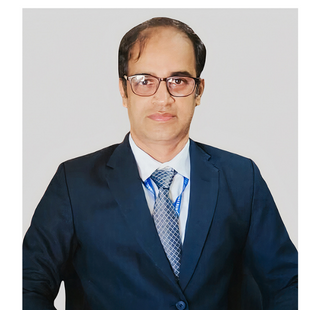
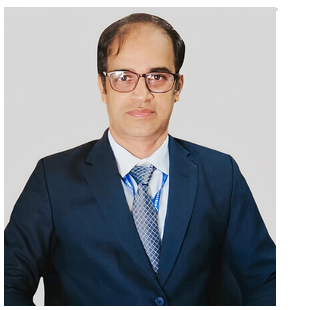
s

diff --git a/founders.php b/founders.php
@@ -46,7 +46,7 @@
             </div>
             <div class="clearfix"></div><br>
             <div class="col-sm-4" style="float:right;">
-                <img src="admin-kvgce/photos/gen_secretary2.png" class="img-responsive">
+                <img src="admin-kvgce/photos/founders/rp1.jpg" class="img-responsive" width="75%">
             </div>
             <div class="col-sm-8" style="font-size: 18px; font-size: 15px; letter-spacing: 1px; line-height: 1.9;">
             <p>KVGCE imparts training for students to make them competent, motivated Engineers and Scientists. The Institute not only celebrates freedom of thought, cultivates vision and encourages growth, but also inculcates human values and concern for the environment<span id="dots1">...</span><span id="more1">. Since its establishment, the institute has played a vital role in providing the technical manpower and know-how to the country and in pursuit of research. With this, I invite you to experience the environment at KVGCE that is a unique blend of traditions and modernity and is evolving continuously. <br>&nbsp;&nbsp;&nbsp;&nbsp; We offer numerous courses in Engineering, Sciences, Management and Humanities. The alumni of the institute have done exceedingly well in all spheres of life at both national and international level and brought name and fame for themselves as well as to their Alma Mater. The institution takes pride in their achievements. I invite you to visit to KVGCE Sullia and spend some time in person at the sprawling campus at Sullia.</span></p>
@@ -88,7 +88,7 @@
             </div>
             <div class="clearfix"></div><br>
             <div class="col-sm-4">
-                <img src="admin-kvgce/photos/founders/uj.png" class="img-responsive">
+                <img src="admin-kvgce/photos/founders/ujwalsir.JPG" class="img-responsive" width="75%">
             </div>
             <div class="col-sm-8" style="font-size: 18px; font-size: 15px; letter-spacing: 1px; line-height: 1.9;">
             <p> KVG College of Engineering focuses on addressing the needs of students fromcurricular, co-curricular and extra-curricular point of view. It is the innateprinciple of our institution that every single student must realize her or his goal to be a robust and effective part of <span id="dotsuj">...</span><span id="moreuj">the world to solve real world problems and tobe an asset to the society<br>&nbsp;&nbsp;&nbsp;&nbsp;Uniqueness of our education system relies in trainingthe students to identify target, setting distinct points in the travel path towards thetarget, and to make them feel the sense of fulfilment at the target. Our resultshave been remarkable in this endeavour. By providing good standard ofinfrastructure, excellent team of teaching faculty and technical supporting staffand team of training and placement KVG College of Engineering has been thevibrant campus. 

diff --git a/aboutus.php b/aboutus.php
@@ -1712,14 +1712,14 @@ function myFunction1() {
                     }
 
                     .card10 .card10-left .card10-img img {
-                        width: 100%;
+                        width: 80%;
                     }
 
                     .card10 .card10-right {
-                        width: 80%;
+                        width:80%;
                         display: flex;
                         flex-direction: column;
-                        padding: 40px;
+                        padding: 20px;
                         box-sizing: border-box;
                     }
 
